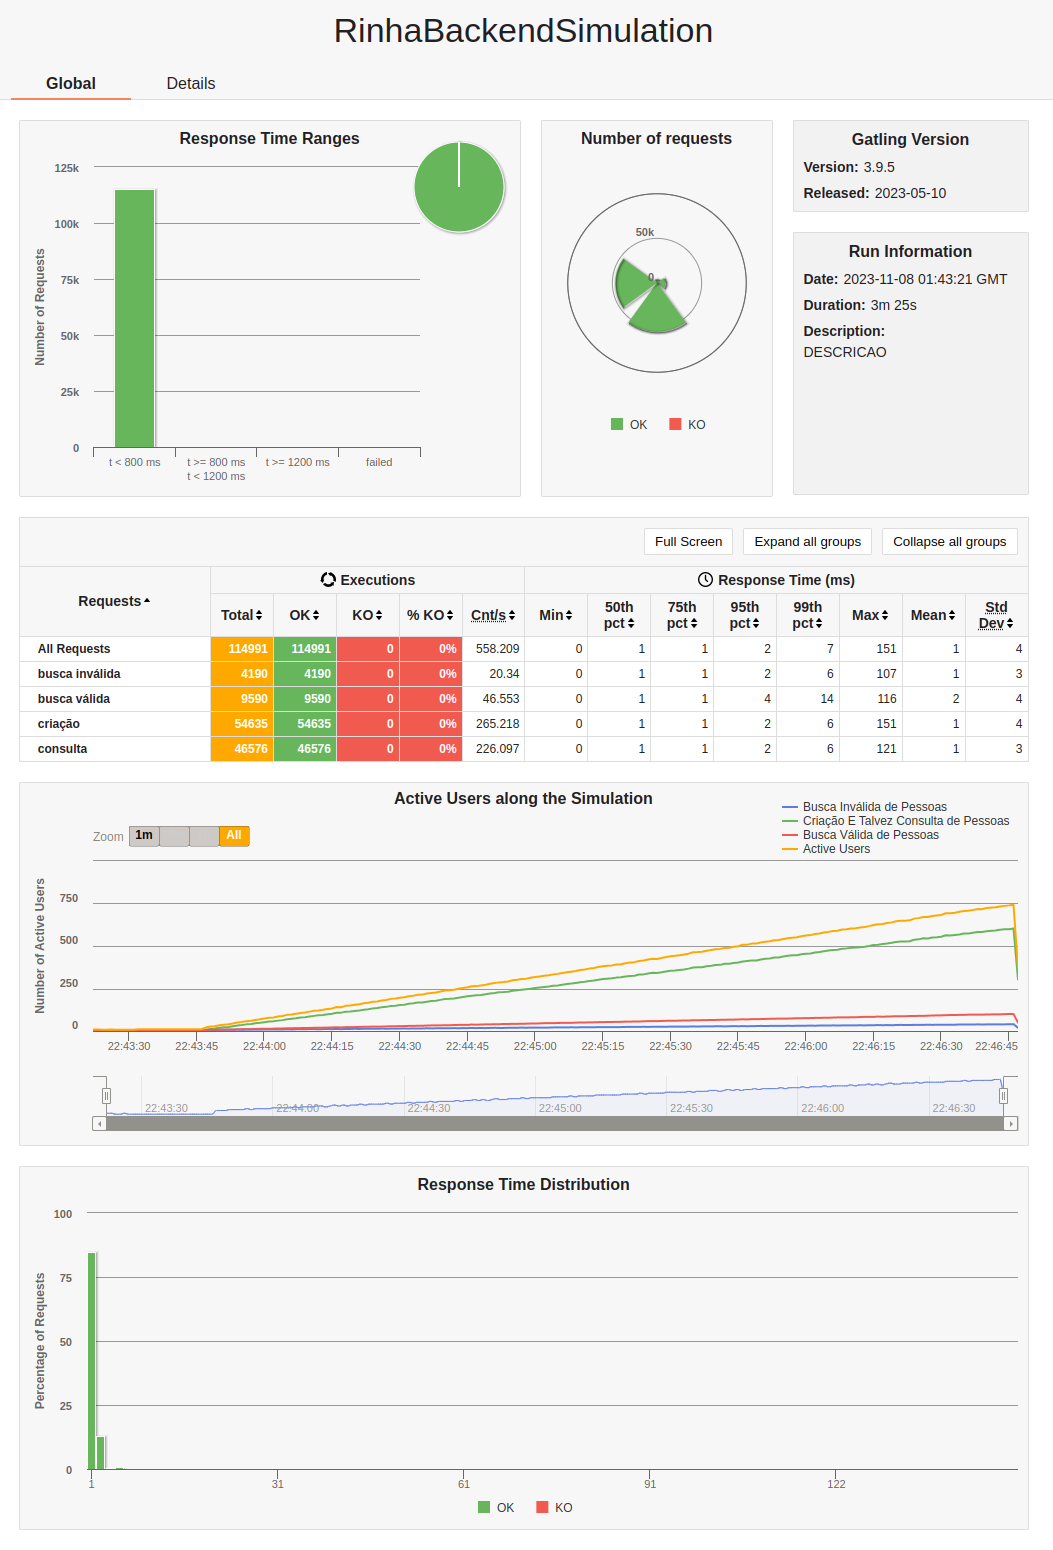
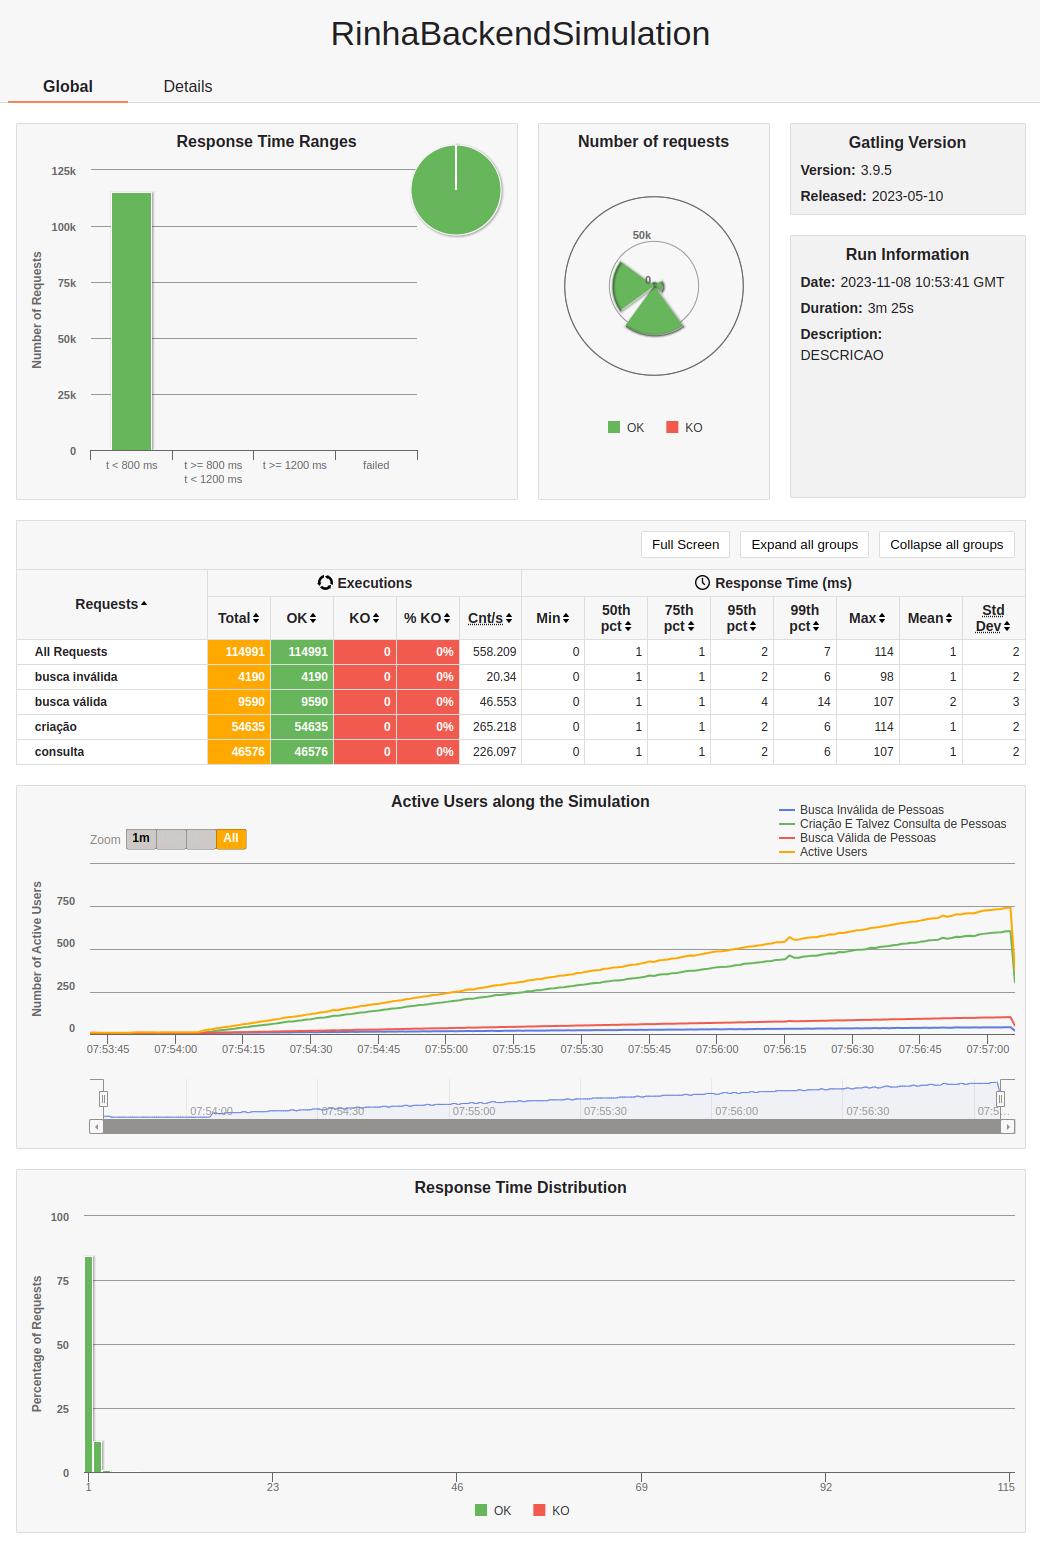
docs: add new results

diff --git a/README.md b/README.md
@@ -53,9 +53,9 @@ Generating reports...
 ---- Global Information --------------------------------------------------------
 > request count                                     114991 (OK=114991 KO=0     )
 > min response time                                      0 (OK=0      KO=-     )
-> max response time                                    151 (OK=151    KO=-     )
+> max response time                                    114 (OK=114    KO=-     )
 > mean response time                                     1 (OK=1      KO=-     )
-> std deviation                                          4 (OK=4      KO=-     )
+> std deviation                                          2 (OK=2      KO=-     )
 > response time 50th percentile                          1 (OK=1      KO=-     )
 > response time 75th percentile                          1 (OK=1      KO=-     )
 > response time 95th percentile                          2 (OK=2      KO=-     )
@@ -67,7 +67,7 @@ Generating reports...
 > t >= 1200 ms                                           0 (  0%)
 > failed                                                 0 (  0%)
 ================================================================================
-A contagem de pessoas é: 46576                                                                                                       /
+A contagem de pessoas é: 46576
 ```
 
 #### Uma instância (sem nginx)
